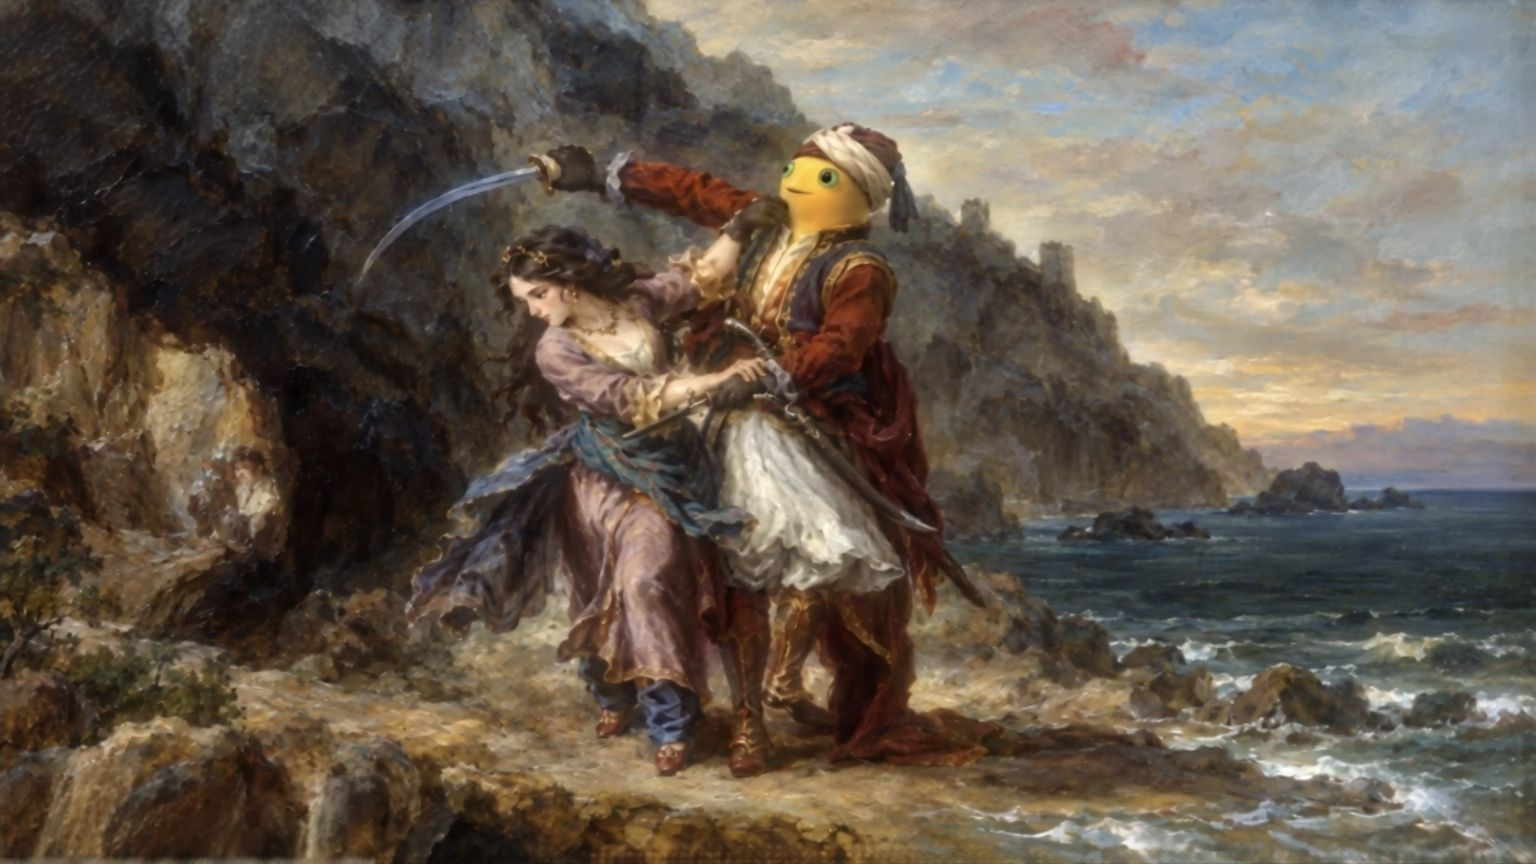
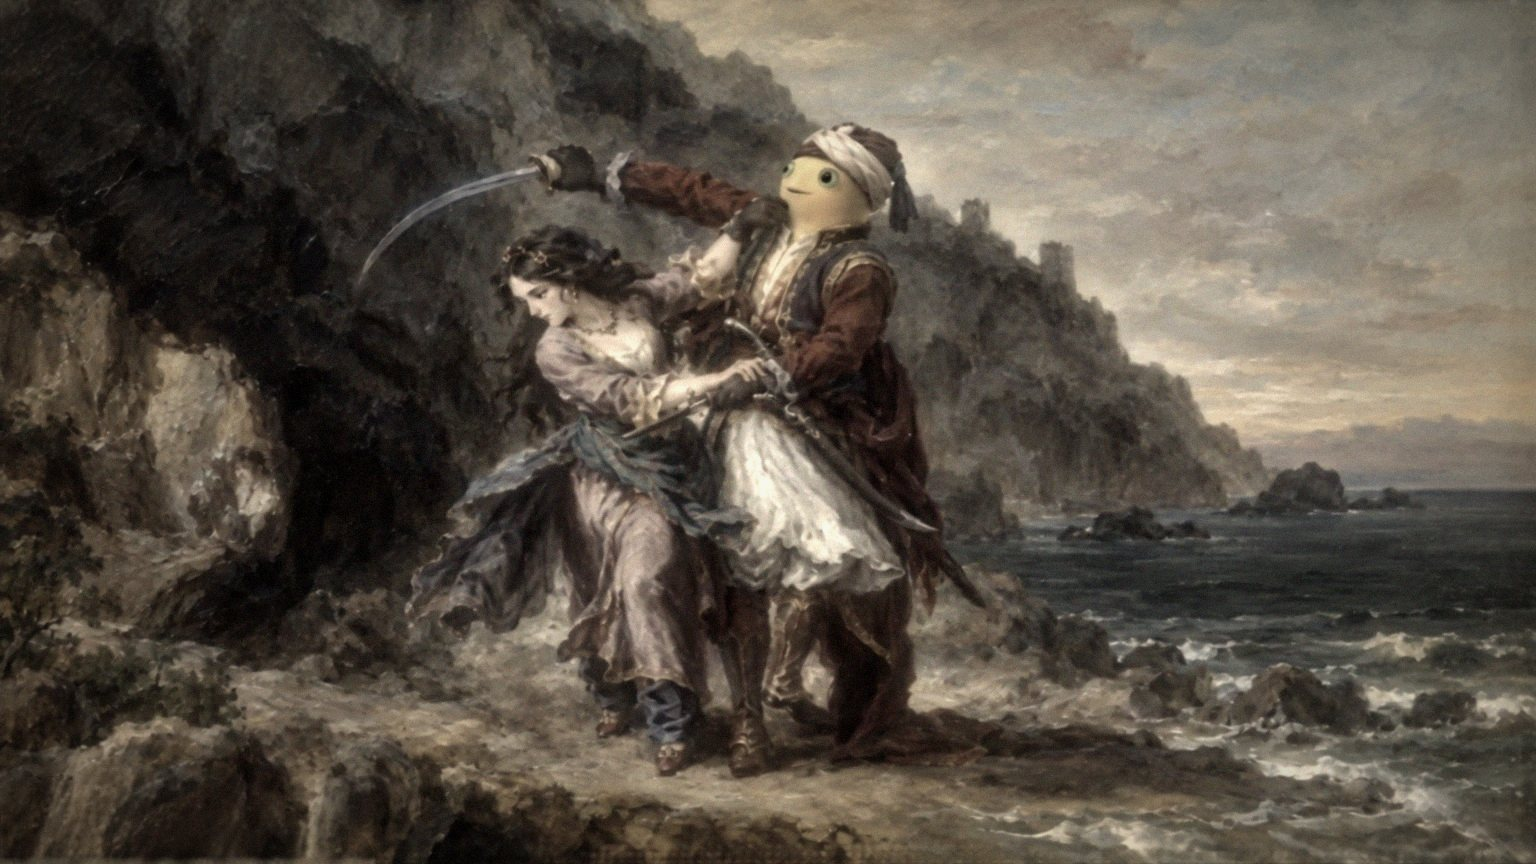
海报做旧：24 张全部重做，分辨率不变
用户 2026-11-06 定：不改分辨率，只做旧。

处理链（tools/age_posters.py）：
  · 降饱和 —— 背景压到 34%，**奶龙的黄色单独保护到 95%**
  · 暖黄偏 R×1.04 / G×1.00 / B×0.94
  · 噪点 标准差 6，模拟监控噪
  · 暗角 四角压暗 38%
  · 边缘泛黄 越靠边越黄，像旧纸
  · 轻微模糊 0.35px，糊掉 AI 生成感

分辨率、宽高比完全没动 —— 位置/尺寸/旋转都由归一化坐标算，
只读 texture.height/width 那个比例，所以贴纸不会错位。

## 迭代中踩的三个坑

1. **第一版把奶龙变灰了**：无脑降饱和到 0.32，角色的黄色一起被吃掉。
   改成按色相挑出「奶龙黄」像素单独保护（H 0.08~0.20、S/V ≥ 0.30），
   掩膜做闭运算 + 高斯羽化，边缘不过渡硬。
   命中率 > 15% 的图判定为误判（整幅金色的画），直接关掉保护。

2. **亮度掉一半**：原图均值 65~126，处理完只剩 31~55 —— 暗角吃掉的面积远超预期。
   改成按原图均值**自动反推提亮系数**，做完统一是原图的 92%。

3. **最要命的：脚本原地覆盖**。SRC 和 DST 都写成了资源目录，
   调一次参数就再压一遍，跑几轮越来越灰，一度以为参数没调对。
   实际是反复做旧叠加。现在固定「从备份读、往资源目录写」。

原图备份在 .workbuddy-ai/poster_backup_original/（24 张，不进库）。
参数集中在脚本头部，想调深浅改那里重跑。

diff --git a/tools/age_posters.py b/tools/age_posters.py
@@ -1,0 +1,157 @@
+# -*- coding: utf-8 -*-
+"""把海报做旧 —— 不改分辨率、不改宽高比。
+
+## 迭代记录（都是踩出来的）
+
+v1  无脑降饱和到 0.32 → 奶龙变灰白认不出来。角色是唯一识别点，毁了就白做。
+v2  按色相加掩膜保护，但色相带太窄（H 0.10~0.18），只护住一小块，整体仍偏灰；
+    克里姆特那种整幅金色的画还被误判成 32% 角色色。
+v3  色相带放宽到 0.08~0.20、掩膜做闭运算 + 羽化；
+    命中率 > 15% 判定为误判、整个关掉保护。
+v4  亮度：第一版处理完均值从 65~126 掉到 31~55（暗角吃掉的面积远超预期），
+    海报贴在灰墙上会糊成一片。改成按「原图均值」自动反推提亮系数。
+"""
+import os
+from PIL import Image, ImageEnhance, ImageFilter
+import numpy as np
+
+# ⚠ **必须从原始备份读，往资源目录写**。
+# 第一版写成了 SRC == DST 原地覆盖，结果调一次参数就再压一遍 ——
+# 跑了几轮之后胶片越来越灰，还以为是参数没调对（实际是反复做旧叠加）。
+SRC = '.workbuddy-ai/poster_backup_original'
+DST = 'Assets/Resources/Posters'
+
+SAT_BG       = 0.34
+SAT_CHAR     = 0.95
+CONTRAST     = 1.06
+WARM         = (1.04, 1.00, 0.94)
+WHITE_CAP    = 0.97
+NOISE        = 6.0
+VIGNETTE     = 0.38
+EDGE_YELLOW  = 0.32
+
+# 提亮目标：处理完之后均值要达到原图的这个比例。
+# 1.0 = 持平。略低一点点（0.92）保留做旧感，但别暗到看不清。
+TARGET_MEAN_RATIO = 0.92
+
+CHAR_H_LO, CHAR_H_HI = 0.08, 0.20
+CHAR_S_LO = 0.30
+CHAR_V_LO = 0.30
+
+MASK_SANITY = 0.15
+
+
+def raw_mask(arr):
+    rgb = arr / 255.0
+    r, g, b = rgb[:, :, 0], rgb[:, :, 1], rgb[:, :, 2]
+    mx = rgb.max(axis=2)
+    mn = rgb.min(axis=2)
+    delta = mx - mn + 1e-6
+
+    h = np.zeros_like(mx)
+    m = (mx == r)
+    h[m] = ((g[m] - b[m]) / delta[m]) % 6
+    m2 = (mx == g) & ~m
+    h[m2] = (b[m2] - r[m2]) / delta[m2] + 2
+    m3 = ~m & ~m2
+    h[m3] = (r[m3] - g[m3]) / delta[m3] + 4
+    h = h / 6.0
+
+    s = np.where(mx > 1e-6, delta / (mx + 1e-6), 0.0)
+    v = mx
+
+    hue_ok = (h >= CHAR_H_LO) & (h <= CHAR_H_HI)
+    return (hue_ok & (s >= CHAR_S_LO) & (v >= CHAR_V_LO)).astype(np.float32)
+
+
+def build_char_mask(arr, shape):
+    m = raw_mask(arr)
+    ratio = float(m.mean())
+
+    if ratio > MASK_SANITY or ratio <= 0.0002:
+        return np.zeros(shape, dtype=np.float32), ratio, False
+
+    m_img = Image.fromarray((m * 255).astype(np.uint8), 'L')
+    m_img = m_img.filter(ImageFilter.MaxFilter(9))
+    m_img = m_img.filter(ImageFilter.MinFilter(7))
+    m_img = m_img.filter(ImageFilter.MaxFilter(5))
+    m_img = m_img.filter(ImageFilter.GaussianBlur(radius=6))
+
+    out = np.asarray(m_img).astype(np.float32) / 255.0
+    return np.clip(out, 0, 1), ratio, True
+
+
+def process(path, out_path):
+    im = Image.open(path).convert('RGB')
+    arr0 = np.asarray(im).astype(np.float32)
+    h, w = arr0.shape[:2]
+    mean0 = float(arr0.mean())
+
+    w_char, ratio, used = build_char_mask(arr0, (h, w))
+    w_char3 = w_char[:, :, None]
+
+    # 降饱和：背景重、角色轻
+    sat_bg = np.asarray(ImageEnhance.Color(im).enhance(SAT_BG)).astype(np.float32)
+    sat_char = np.asarray(ImageEnhance.Color(im).enhance(SAT_CHAR)).astype(np.float32)
+    arr = sat_bg * (1 - w_char3) + sat_char * w_char3
+
+    im = Image.fromarray(np.clip(arr, 0, 255).astype(np.uint8), 'RGB')
+    im = ImageEnhance.Contrast(im).enhance(CONTRAST)
+    arr = np.asarray(im).astype(np.float32)
+
+    # 暖黄
+    arr = np.clip(arr * np.array(WARM, dtype=np.float32), 0, 255)
+
+    # 噪点
+    rng = np.random.default_rng(20261105)
+    arr += rng.normal(0.0, NOISE, arr.shape)
+
+    # 暗角
+    if VIGNETTE > 0:
+        yy, xx = np.mgrid[0:h, 0:w]
+        nx = (xx - (w - 1) / 2.0) / (w / 2.0)
+        ny = (yy - (h - 1) / 2.0) / (h / 2.0)
+        d = np.sqrt(nx * nx + ny * ny) / np.sqrt(2.0)
+        arr *= (1.0 - VIGNETTE * np.clip(d, 0, 1) ** 1.6)[:, :, None]
+
+    # 边缘泛黄
+    if EDGE_YELLOW > 0:
+        yy, xx = np.mgrid[0:h, 0:w]
+        ex = np.minimum(xx, w - 1 - xx) / (w / 2.0)
+        ey = np.minimum(yy, h - 1 - yy) / (h / 2.0)
+        e = 1.0 - np.clip(np.minimum(ex, ey) / 0.35, 0, 1)
+        a = (EDGE_YELLOW * e)[:, :, None]
+        tint = np.array([1.12, 1.03, 0.80], dtype=np.float32)
+        arr = arr * (1 - a) + (arr * tint) * a
+
+    # ★ 自动提亮：按当前均值反推系数，做到「处理完 = 原图 × TARGET_MEAN_RATIO」
+    #   硬编码系数在不同明暗的图上表现天差地别 —— 暗画更暗、亮画刚好。
+    cur = float(np.clip(arr, 0, 255).mean())
+    if cur > 1e-3:
+        gain = (mean0 * TARGET_MEAN_RATIO) / cur
+        gain = float(np.clip(gain, 0.5, 4.0))
+        arr = arr * gain
+
+    arr = np.clip(arr, 0, 255) * WHITE_CAP
+    arr = np.clip(arr, 0, 255).astype(np.uint8)
+
+    out = Image.fromarray(arr, 'RGB')
+    out = out.filter(ImageFilter.GaussianBlur(radius=0.35))
+    out.save(out_path, 'JPEG', quality=84, subsampling=2, optimize=True)
+
+    return out.size, ratio, used, mean0, float(np.asarray(out).mean())
+
+
+def main():
+    files = sorted(f for f in os.listdir(SRC) if f.lower().endswith('.jpg'))
+    print('共 %d 张' % len(files))
+    for f in files:
+        size, ratio, used, m0, m1 = process(
+            os.path.join(SRC, f), os.path.join(DST, f))
+        print('  %-16s %sx%-5s 命中%5.2f%% %s  亮度 %5.1f -> %5.1f' % (
+            f, size[0], size[1], ratio * 100, '保护' if used else '不保护', m0, m1))
+    print('完成')
+
+
+if __name__ == '__main__':
+    main()
